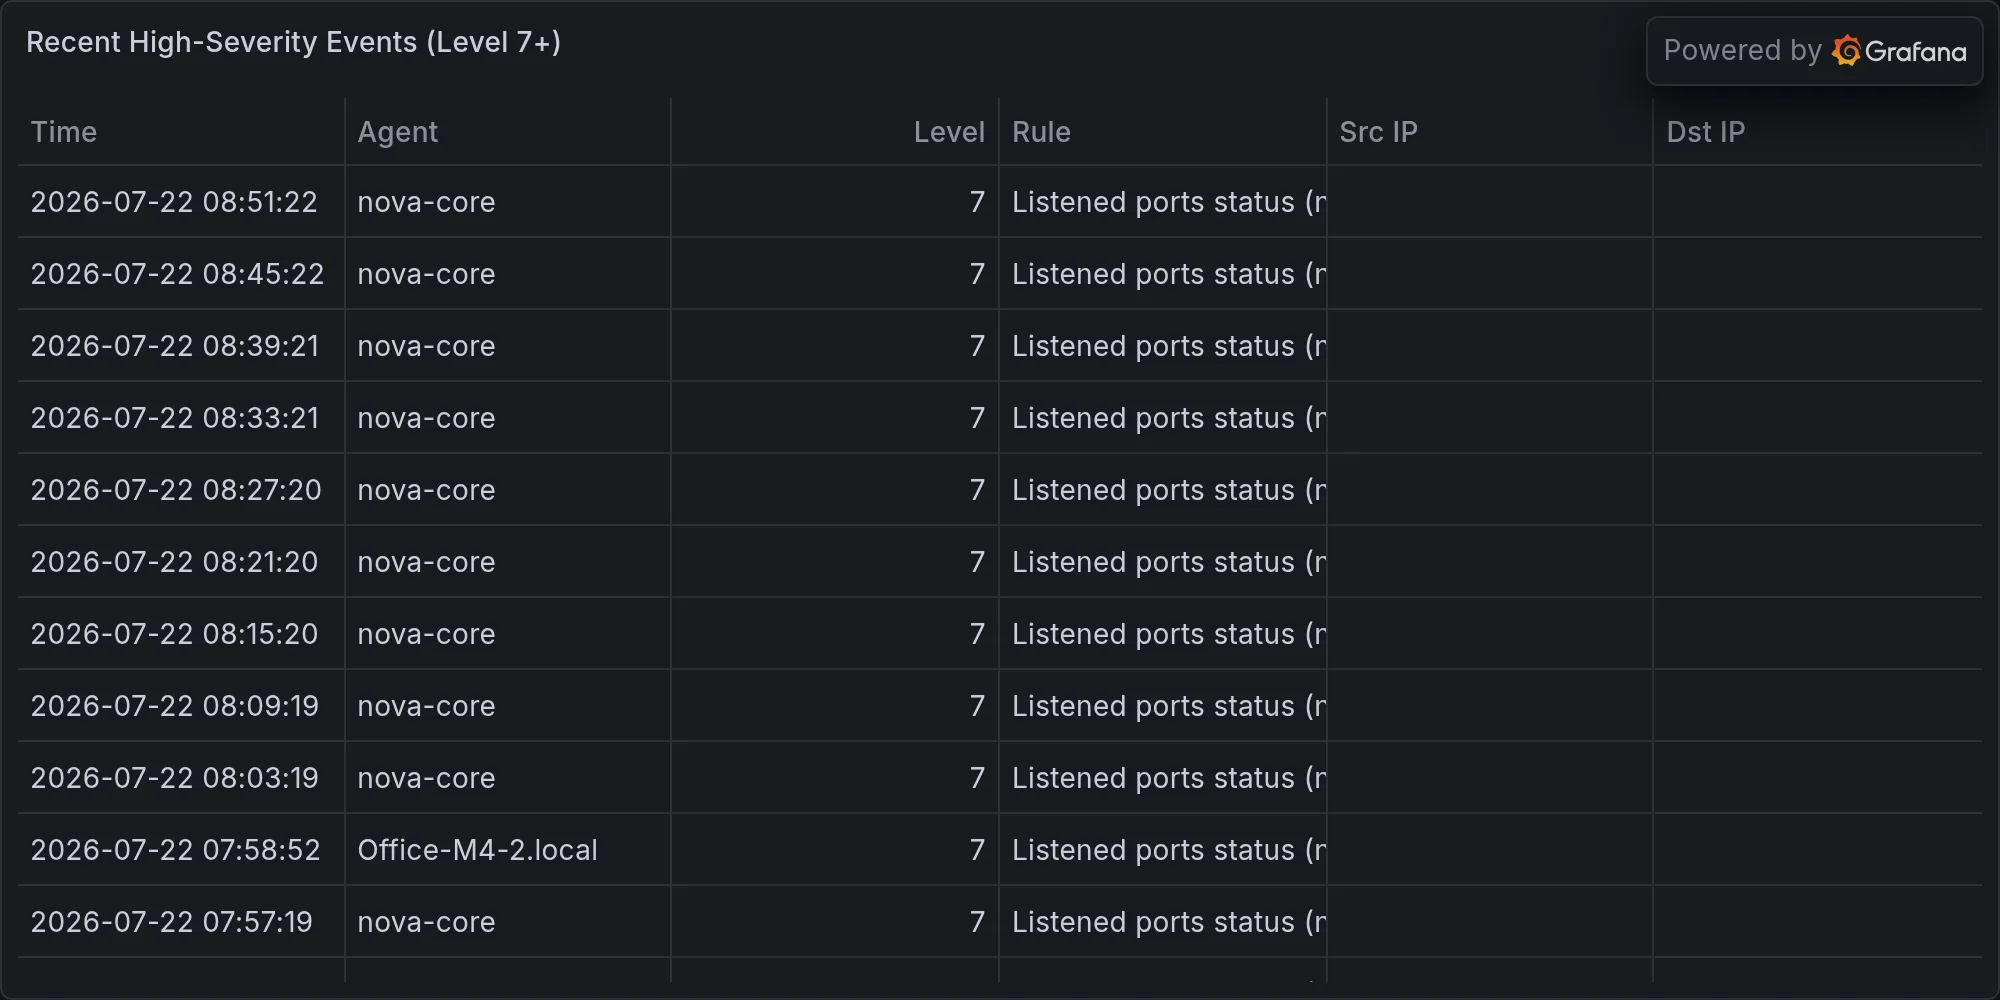
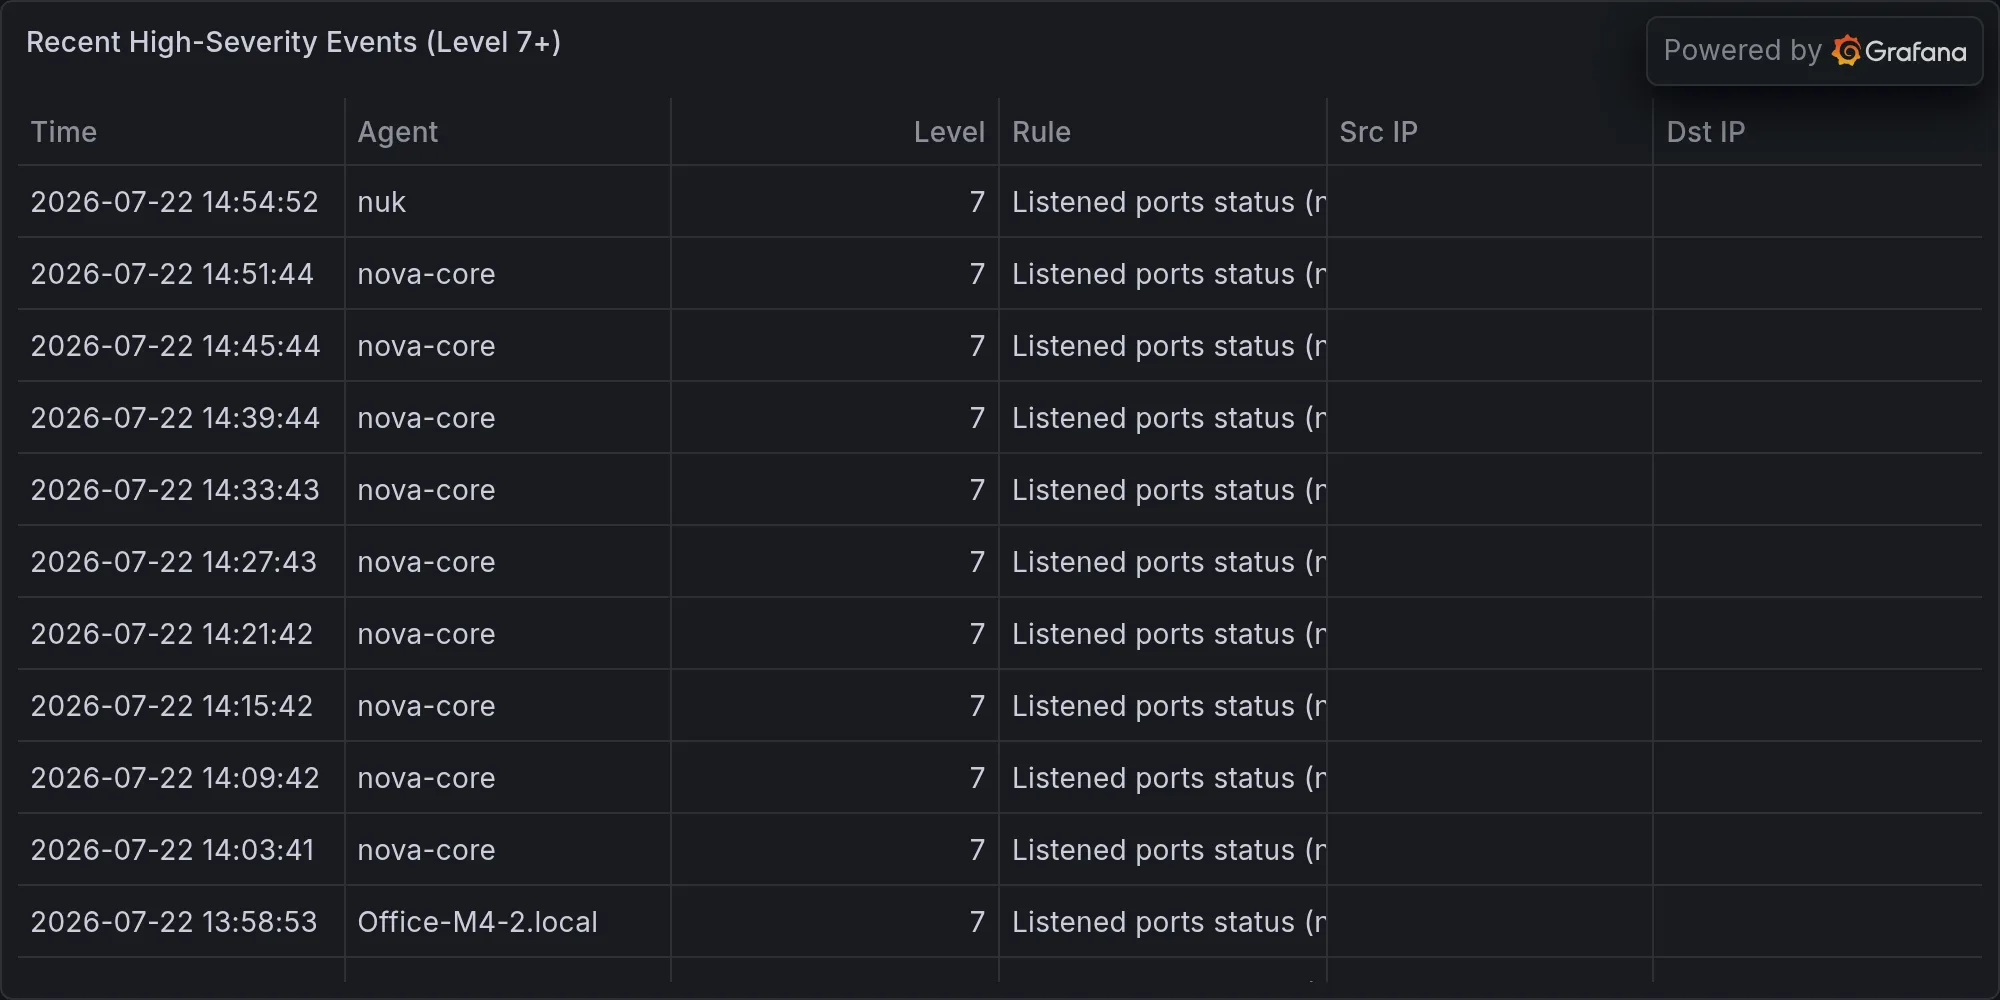
security: 2026-07-22 — **CRITICAL: Langflow Remote Code Execution — Activ

diff --git a/content/operations/2026-07-22-critical-langflow-remote-code-execution-active-exploitation-.md b/content/operations/2026-07-22-critical-langflow-remote-code-execution-active-exploitation-.md
@@ -1,0 +1,50 @@
+---
+title: "🛡 **CRITICAL: Langflow Remote Code Execution — Active Exploitation, CISA Immediate Remediation Mandate**"
+date: 2026-07-22T14:57:00-07:00
+draft: false
+categories: ["operations"]
+tags: ["breaking-alert", "news4hackers-cisa-urges-immediate-action", "security"]
+description: "BREAKING: news4hackers: CISA Urges Immediate Action on Critical Langflow RCE Vulnerability Exploited"
+---
+
+*Published Wednesday, July 22, 2026 at 02:57 PM PT*
+
+**BLUF:** Langflow RCE vulnerability is under active exploitation in the wild. CISA has mandated immediate remediation for federal agencies and critical infrastructure operators. All Langflow deployments should be inventoried, assessed for exposure, and patched immediately upon vendor release. No patch timeline confirmed yet.
+
+**DETAILS**
+
+- **Active exploitation confirmed:** Multiple sources (CISA, BleepingComputer, SecurityWeek) report the Langflow RCE is being weaponized in live attacks against unknown targets.
+- **CISA mandate:** U.S. Cybersecurity & Infrastructure Security Agency has ordered federal agencies to prioritize patching. Likely CISA KEV (Known Exploited Vulnerabilities) entry; federal deadline TBD.
+- **Attack vector:** Credential harvesting confirmed. Attackers leveraging the RCE to extract credentials from compromised deployments. Full scope of post-exploitation capabilities not yet confirmed in available reporting.
+- **Related vulns:** Langflow auth bypass also flagged by CISA in parallel directives. Possible chaining risk; details sparse.
+- **Vendor status:** Patch availability unconfirmed. No CVE number, affected versions, or vendor advisory confirmed in provided intelligence.
+
+**IMPACT**
+
+- **Scope:** Any Langflow deployment exposed to the internet or untrusted networks is at immediate risk.
+- **Affected parties:** Cloud-hosted Langflow instances, on-prem deployments, and integrated applications relying on Langflow for LLM orchestration.
+- **Blast radius:** Compromised deployments leak API keys, stored credentials, and potentially access to upstream LLM providers (OpenAI, Anthropic, etc.).
+- **Critical for:** Security teams managing internal tools, chatbots, RAG pipelines, or LLM-backed automation layers.
+
+**RECOMMENDED ACTIONS**
+
+1. **Immediate:** Inventory all Langflow instances. Determine exposure surface (internet-facing vs. internal only).
+2. **Assess:** Check logs for exploitation indicators — unusual API calls, auth bypass attempts, code execution traces.
+3. **Contain:** Isolate internet-facing Langflow instances from production until patch is available. Rotate API keys and secrets.
+4. **Watch vendor:** Monitor Langflow GitHub releases and security advisories. CISA KEV catalog for confirmed timeline.
+5. **Monitor CISA:** Track the official mandate and federal patch deadline; likely applies to contractors/upstream suppliers as well.
+
+**SOURCES**
+
+- CISA (multiple directives, exact URLs not provided in this brief)
+- BleepingComputer: "CISA orders urgent action on actively exploited Langflow RCE flaw"
+- SecurityWeek: Coverage of exploited ColdFusion, Langflow, Joomla flaws
+- Help Net Security: "Attackers using Langflow flaw for credential harvesting (CVE-2026-55255)"
+
+**UNCERTAINTY NOTE:** Patch availability, exact CVE mapping, and affected versions not confirmed in available reporting. This alert will be updated when vendor/CISA advisory details are published.
+
+---
+
+**Recent high-severity events at publish time:**
+
+![Recent high-severity events](/images/operations/2026-07-22-breaking-alert-posture.webp)
